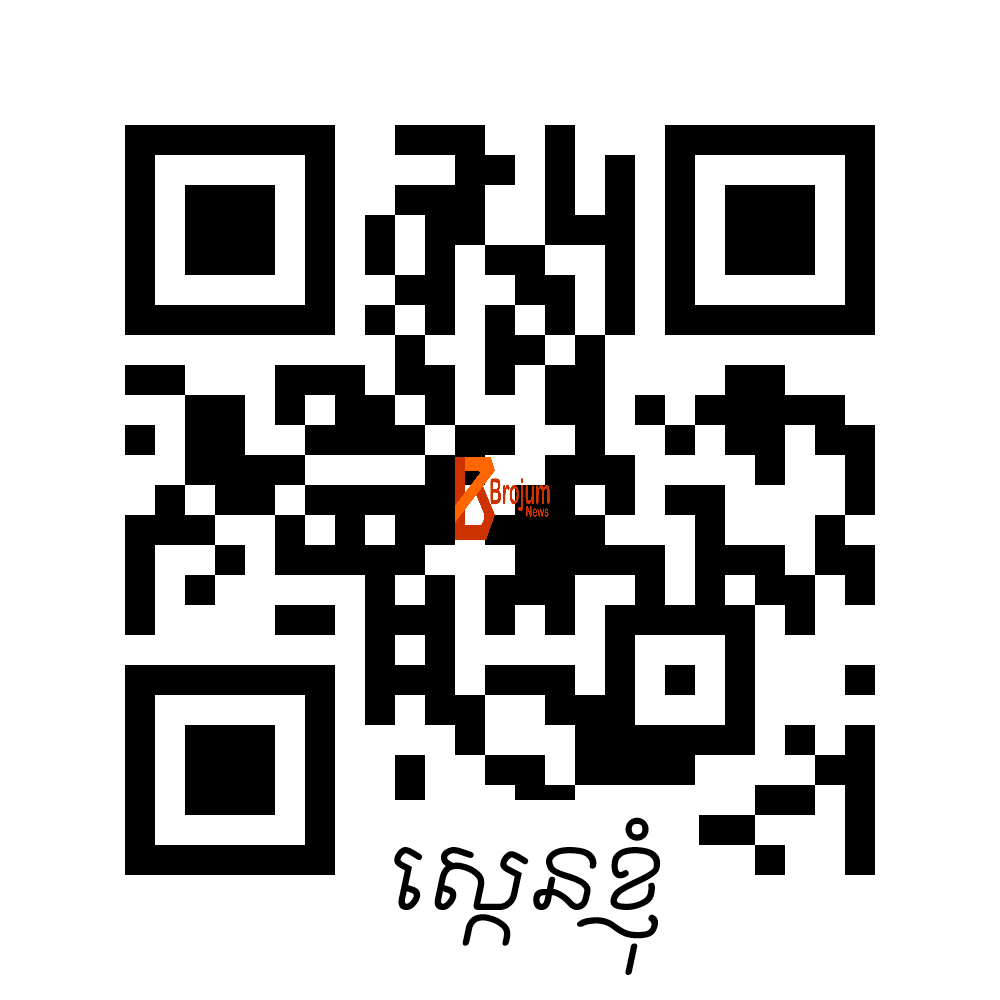
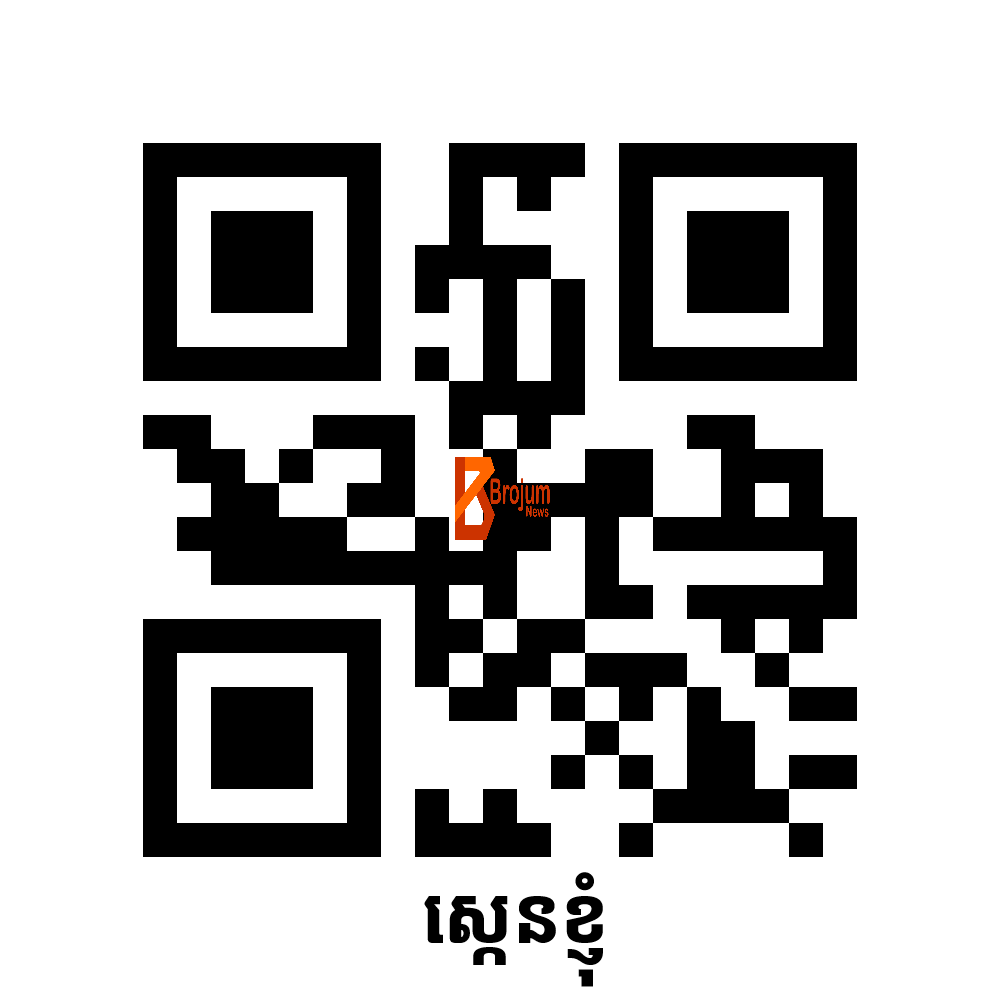
update lasted version

diff --git a/src/main/java/com/solo/controller/QRCodeController.java b/src/main/java/com/solo/controller/QRCodeController.java
@@ -24,8 +24,15 @@ public class QRCodeController {
 	
 	@RequestMapping(value = "/background/{url:.+}", method = RequestMethod.GET)
 	public ResponseEntity<Resource> QRCodeWithBG(@PathVariable String url) throws Exception {
+		
+		//Write log
 		SLog.info.print("start generate QRCode");
-		SQRCode.GenerateQRCodeWithBG(url, 900, 900, System.getProperty("user.dir") +"/"+ "logo.png", System.getProperty("user.dir") +"/"+ "logo_new.png", Color.BLUE);
+		
+		//Generate QRCode
+		String originalLogo = System.getProperty("user.dir") +"/"+ "logo.png";
+		String newLogo = System.getProperty("user.dir") +"/"+ "logo_new.png";
+		SQRCode.GenerateQRCodeWithBG(url, 900, 900, originalLogo, newLogo, Color.RED);
+		
 		HttpHeaders headers = new HttpHeaders();
 		String path = System.getProperty("user.dir") +"/"+ "logo_new.png";
 		File file = new File(path);
@@ -37,15 +44,21 @@ public class QRCodeController {
 	
 	@RequestMapping(value = "/logo/{url:.+}", method = RequestMethod.GET)
 	public ResponseEntity<Resource> QRCodeWithLogo(@PathVariable String url) throws Exception {
+		
+		//Write log
 		SLog.info.print("start generate QRCode");
 		
-		SQRCode.GenerateQRCodeWithLogo(url, System.getProperty("user.dir") +"/"+ "logo.png", System.getProperty("user.dir") +"/"+ "qrcode.png", "png", 1000, 1000);
+		//Generate QRCode
+		String originalLogo = System.getProperty("user.dir") +"/"+ "logo.png";
+		String newLogo = System.getProperty("user.dir") +"/"+ "qrcode.png";
+		SQRCode.GenerateQRCodeWithLogo(url, originalLogo, newLogo, "png", 1000, 1000);
 		
+		//Set image scan me ( X, Y )
 		String imageOriginal = System.getProperty("user.dir") + "/qrcode.png"; 
 		String imageOverlay = System.getProperty("user.dir")+"/"+"scanme.PNG"; 
 		String output_location = System.getProperty("user.dir")+"/"+"qrcode.png";
-		int x = 360; 
-		int y = 800;
+		int x = 420; 
+		int y = 870;
 		OverlayImage.ApplyOverlay(imageOriginal, imageOverlay, output_location, x, y);
 		
 		HttpHeaders headers = new HttpHeaders();
@@ -59,9 +72,14 @@ public class QRCodeController {
 
 	@RequestMapping(value = "/qrcodeWifi/{wifiName:.+}/{wifiPass:.+}", method = RequestMethod.GET)
 	public ResponseEntity<Resource> QRCode_wifi(@PathVariable String wifiName, @PathVariable String wifiPass) throws Exception {
+		
+		//Write log
 		SLog.info.print("start generate QRCode Wifi");
-		SQRCode.generateQRCodeWifi_WPA_WPA2_WPA3(wifiName, wifiPass, 500, 500, System.getProperty("user.dir") + "/wifi.png");
-
+		String QRCodeWifi = System.getProperty("user.dir") + "/wifi.png";
+		
+		//Generate QRCode
+		SQRCode.generateQRCodeWifi_WPA_WPA2_WPA3(wifiName, wifiPass, 500, 500, QRCodeWifi);
+		
 		HttpHeaders headers = new HttpHeaders();
 		String path = System.getProperty("user.dir") +"/"+ "wifi.png";
 		File file = new File(path);
